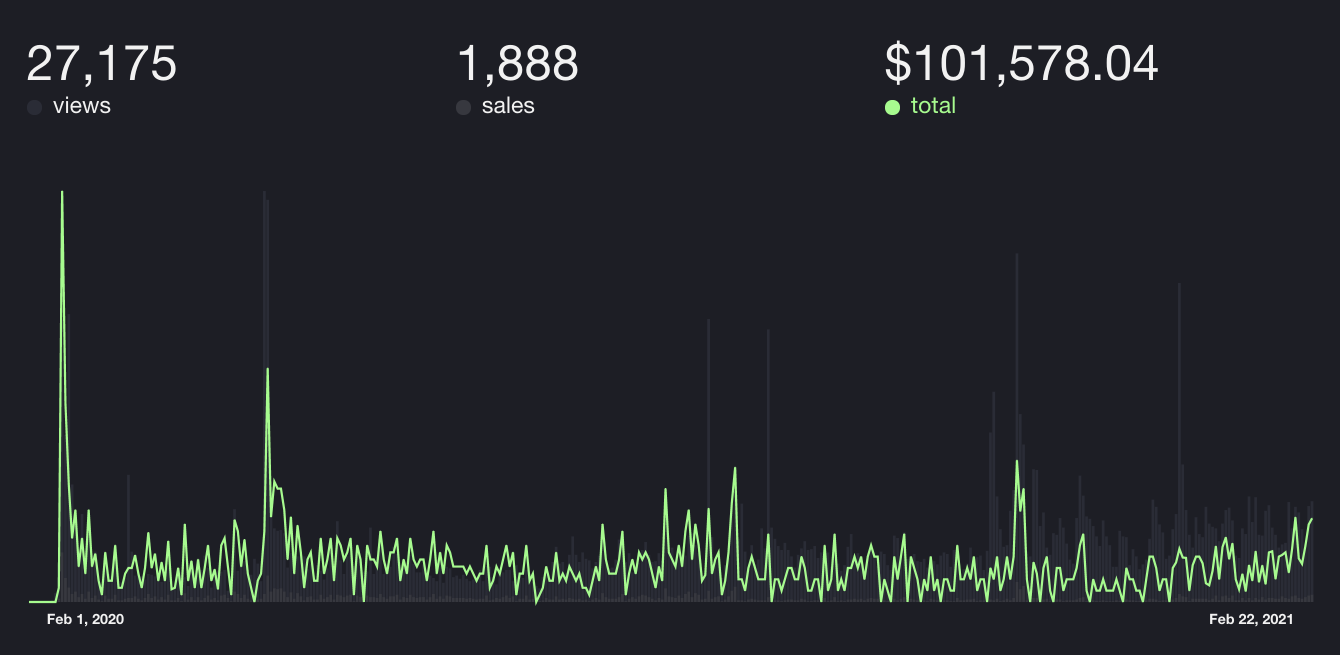
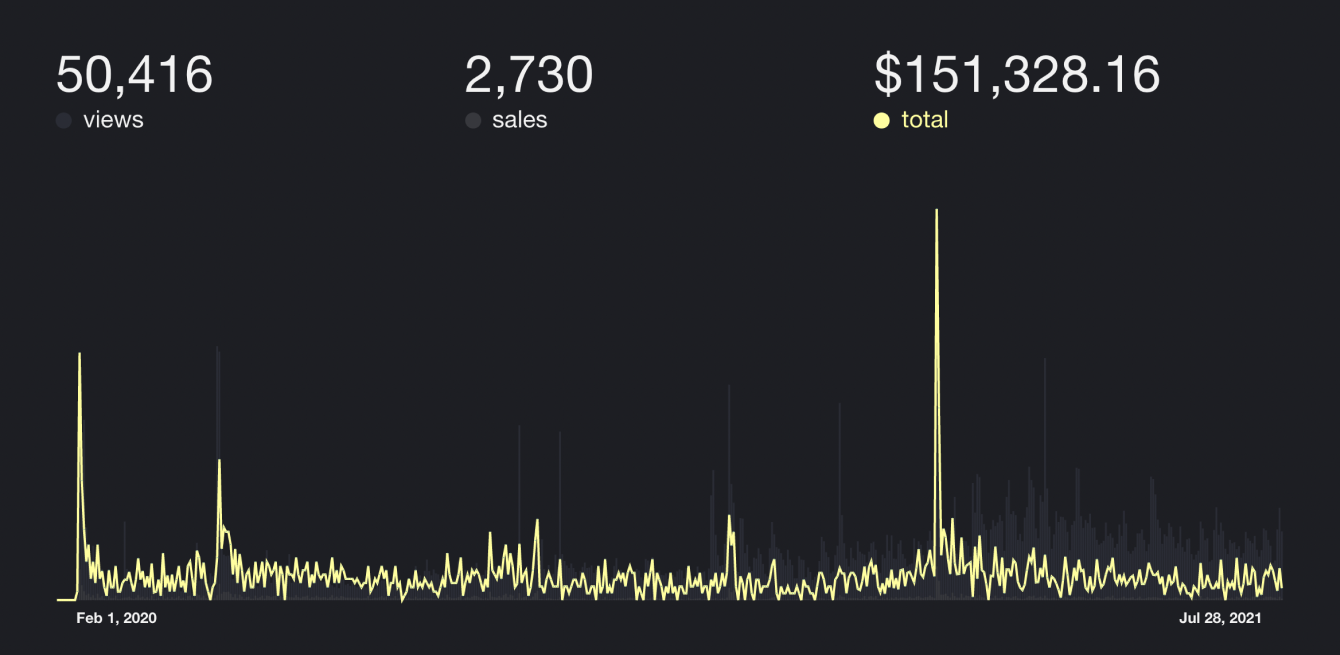
Add new journey item

diff --git a/lib/journeys.js b/lib/journeys.js
@@ -137,7 +137,7 @@ let journeys = [
     title: "Hitting The Mark",
     startDate: "January 2021",
     endDate: "February 2021",
-    screenshot: "0",
+    screenshot: "7",
     color: "green",
     sales: "101,578.04",
     takeaways: [
@@ -155,6 +155,29 @@ let journeys = [
       },
     ],
     tweets: ['1349340816964153345', '1351902269457874945', '1354438205831958530', '1363140838788751360', '1364252383233024001', '1364942814497316864']
+  },
+  {
+    title: "Building something new",
+    startDate: "March 2021",
+    endDate: "July 2021",
+    screenshot: "0",
+    color: "yellow",
+    sales: "151,328.16",
+    takeaways: [
+      {
+        text: "Products are like investments, you have to <strong>diversify in order to minimize risk</strong>. That's why I built a new thing called Dracula UI.",
+        emoji: "rocket",
+      },
+      {
+        text: "Launching a new product while maintaining an existing one is super difficult. Add a full-time job to the mix and things get really complicated. I'm not gonna lie, <strong>I was extremely tired!</strong>",
+        emoji: "tired",
+      },
+      {
+        text: "As things get bigger, it's important to protect your assets from a legal perspective. Because of that, I decided to <strong>register a trademark</strong> in the US.",
+        emoji: "scroll",
+      },
+    ],
+    tweets: ['1376204548474335239', '1382334469370224645', '1382334474839494664', '1386677471513223172', '1400818874606571523', '1407342343963951105']
   },
 ];
 

diff --git a/components/journey/Header.js b/components/journey/Header.js
@@ -4,8 +4,8 @@ import styles from './Header.module.css';
 class Header extends Component {
   render() {
     return <div className={styles.header}>
-      <h1 className={styles.title}>A solo journey to 100k</h1>
-      <h2 className={styles.slogan}>Dracula PRO has hit 100K in sales — here's everything I learned along the way</h2>
+      <h1 className={styles.title}>A solo journey to 150k</h1>
+      <h2 className={styles.slogan}>Dracula PRO has hit 150K in sales — here's everything I learned along the way</h2>
       <img className={styles.screenshot} src="/static/img/pro/journey/0.png" alt="Dracula PRO sales from Feb 2020 to Feb 2021" />
     </div>
   }

diff --git a/pages/pro/journey.js b/pages/pro/journey.js
@@ -52,8 +52,8 @@ class Journey extends React.Component {
   }
 
   render() {
-    const title = 'How I made $101,578.04 selling colors online - Dracula';
-    const description = 'Dracula PRO has hit 100K in sales — here\'s everything I learned along the way';
+    const title = 'How I made $151,328.16 selling colors online - Dracula';
+    const description = 'Dracula PRO has hit 150K in sales — here\'s everything I learned along the way';
 
     return (
       <div className="green" style={{ backgroundColor: '#2a2c37', fontFamily: 'Fira Code, monospace' }}>

diff --git a/components/journey/Header.module.css b/components/journey/Header.module.css
@@ -8,8 +8,13 @@
   margin: 0 auto;
 }
 
+.header ::selection {
+  background: #ffff80;
+  color: #000;
+}
+
 .title {
-  color: #50fa7b;
+  color: #ffff80;
   margin: 0;
   font-size: 70px;
   text-align: center;
